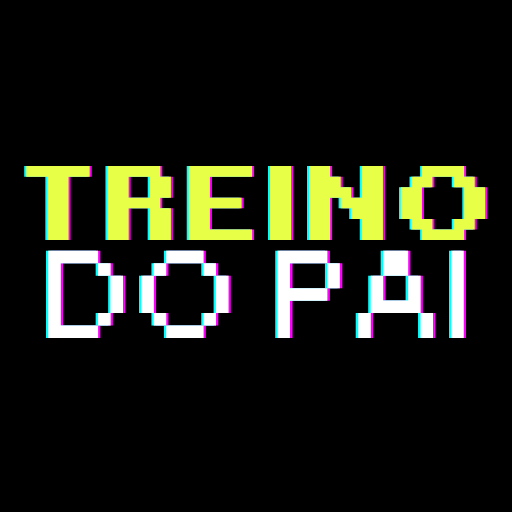
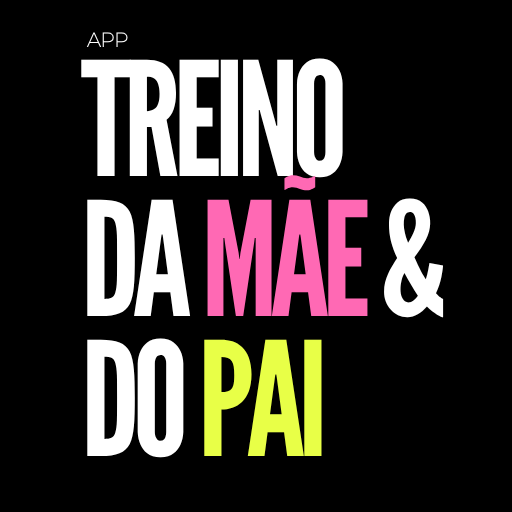
Renomeia app para TREINO DA MÃE & DO PAI + novo ícone (v0.13.0)
- Título, meta tags e nome interno atualizados
- Novo ícone com branding atualizado
- Cache-buster do ícone renovado

diff --git a/treino.html b/treino.html
@@ -1,14 +1,14 @@
 <!DOCTYPE html>
 <html lang="pt-BR">
 <head>
-    <link rel="icon" type="image/png" href="apple-touch-icon.png?v=1775683057">
+    <link rel="icon" type="image/png" href="apple-touch-icon.png?v=1775954806">
 <meta charset="UTF-8">
 <meta name="viewport" content="width=device-width, initial-scale=1.0, maximum-scale=1.0, user-scalable=no">
-<title>TREINO DO PAI</title>
-<link rel="apple-touch-icon" href="apple-touch-icon.png?v=1775683057">
+<title>TREINO DA MÃE &amp; DO PAI</title>
+<link rel="apple-touch-icon" href="apple-touch-icon.png?v=1775954806">
 <meta name="apple-mobile-web-app-capable" content="yes">
 <meta name="apple-mobile-web-app-status-bar-style" content="black-translucent">
-<meta name="apple-mobile-web-app-title" content="TREINO DO PAI">
+<meta name="apple-mobile-web-app-title" content="TREINO DA MÃE &amp; DO PAI">
 <link href="https://fonts.googleapis.com/css2?family=Bebas+Neue&family=DM+Sans:ital,wght@0,300;0,400;0,500;0,600;1,400&display=swap" rel="stylesheet">
 <style>
 :root{
@@ -632,9 +632,10 @@ const SWITCH_WEEKS=8;
 const DAY_TO_WORKOUT={};
 
 // APP VERSION — atualizar a cada commit
-const APP_VERSION='0.12.0';
+const APP_VERSION='0.13.0';
 const APP_UPDATED='2026-04-11';
 const CHANGELOG=[
+  {v:'0.13.0',d:'2026-04-11',items:['Novo nome: TREINO DA MÃE & DO PAI','Novo ícone do app']},
   {v:'0.12.0',d:'2026-04-11',items:['Compatibilidade automática ao restaurar backups de versões anteriores','Backups antigos são atualizados para a versão atual na importação']},
   {v:'0.11.1',d:'2026-04-11',items:['Correções de bugs e melhorias do app']},
   {v:'0.11.0',d:'2026-04-11',items:['Alertas sonoros diferenciados para cada etapa do treino','Sons ao iniciar, pausar, retomar e encerrar sessões de musculação e corrida']},
@@ -2725,11 +2726,11 @@ function exportFit(idx){
   }catch(e){alert('Erro ao gerar .fit: '+e.message);}
 }
 function exportBackup(){
-  const payload={app:'treino-do-pai',version:1,stateVersion:STATE_VERSION,appVersion:APP_VERSION,exportedAt:new Date().toISOString(),state};
+  const payload={app:'treino-da-mae-e-pai',version:1,stateVersion:STATE_VERSION,appVersion:APP_VERSION,exportedAt:new Date().toISOString(),state};
   const blob=new Blob([JSON.stringify(payload,null,2)],{type:'application/json'});
   const url=URL.createObjectURL(blob);
   const d=new Date(),pad=n=>String(n).padStart(2,'0');
-  const fname=`treino-do-pai-backup-${d.getFullYear()}-${pad(d.getMonth()+1)}-${pad(d.getDate())}_${pad(d.getHours())}${pad(d.getMinutes())}.json`;
+  const fname=`treino-backup-${d.getFullYear()}-${pad(d.getMonth()+1)}-${pad(d.getDate())}_${pad(d.getHours())}${pad(d.getMinutes())}.json`;
   const a=document.createElement('a');a.href=url;a.download=fname;document.body.appendChild(a);a.click();
   setTimeout(()=>{document.body.removeChild(a);URL.revokeObjectURL(url);},100);
   showToast('✓ Backup exportado',true);
@@ -4820,7 +4821,7 @@ function updateFreeRunDisplay(){
 }
 
 // THEME — PAI vs MÃE
-function getAppName(){return state.profile.sex==='F'?'TREINO DA MÃE':'TREINO DO PAI';}
+function getAppName(){return 'TREINO DA MÃE & DO PAI';}
 function isFem(){return state.profile.sex==='F';}
 function applyTheme(){
   const fem=isFem();
